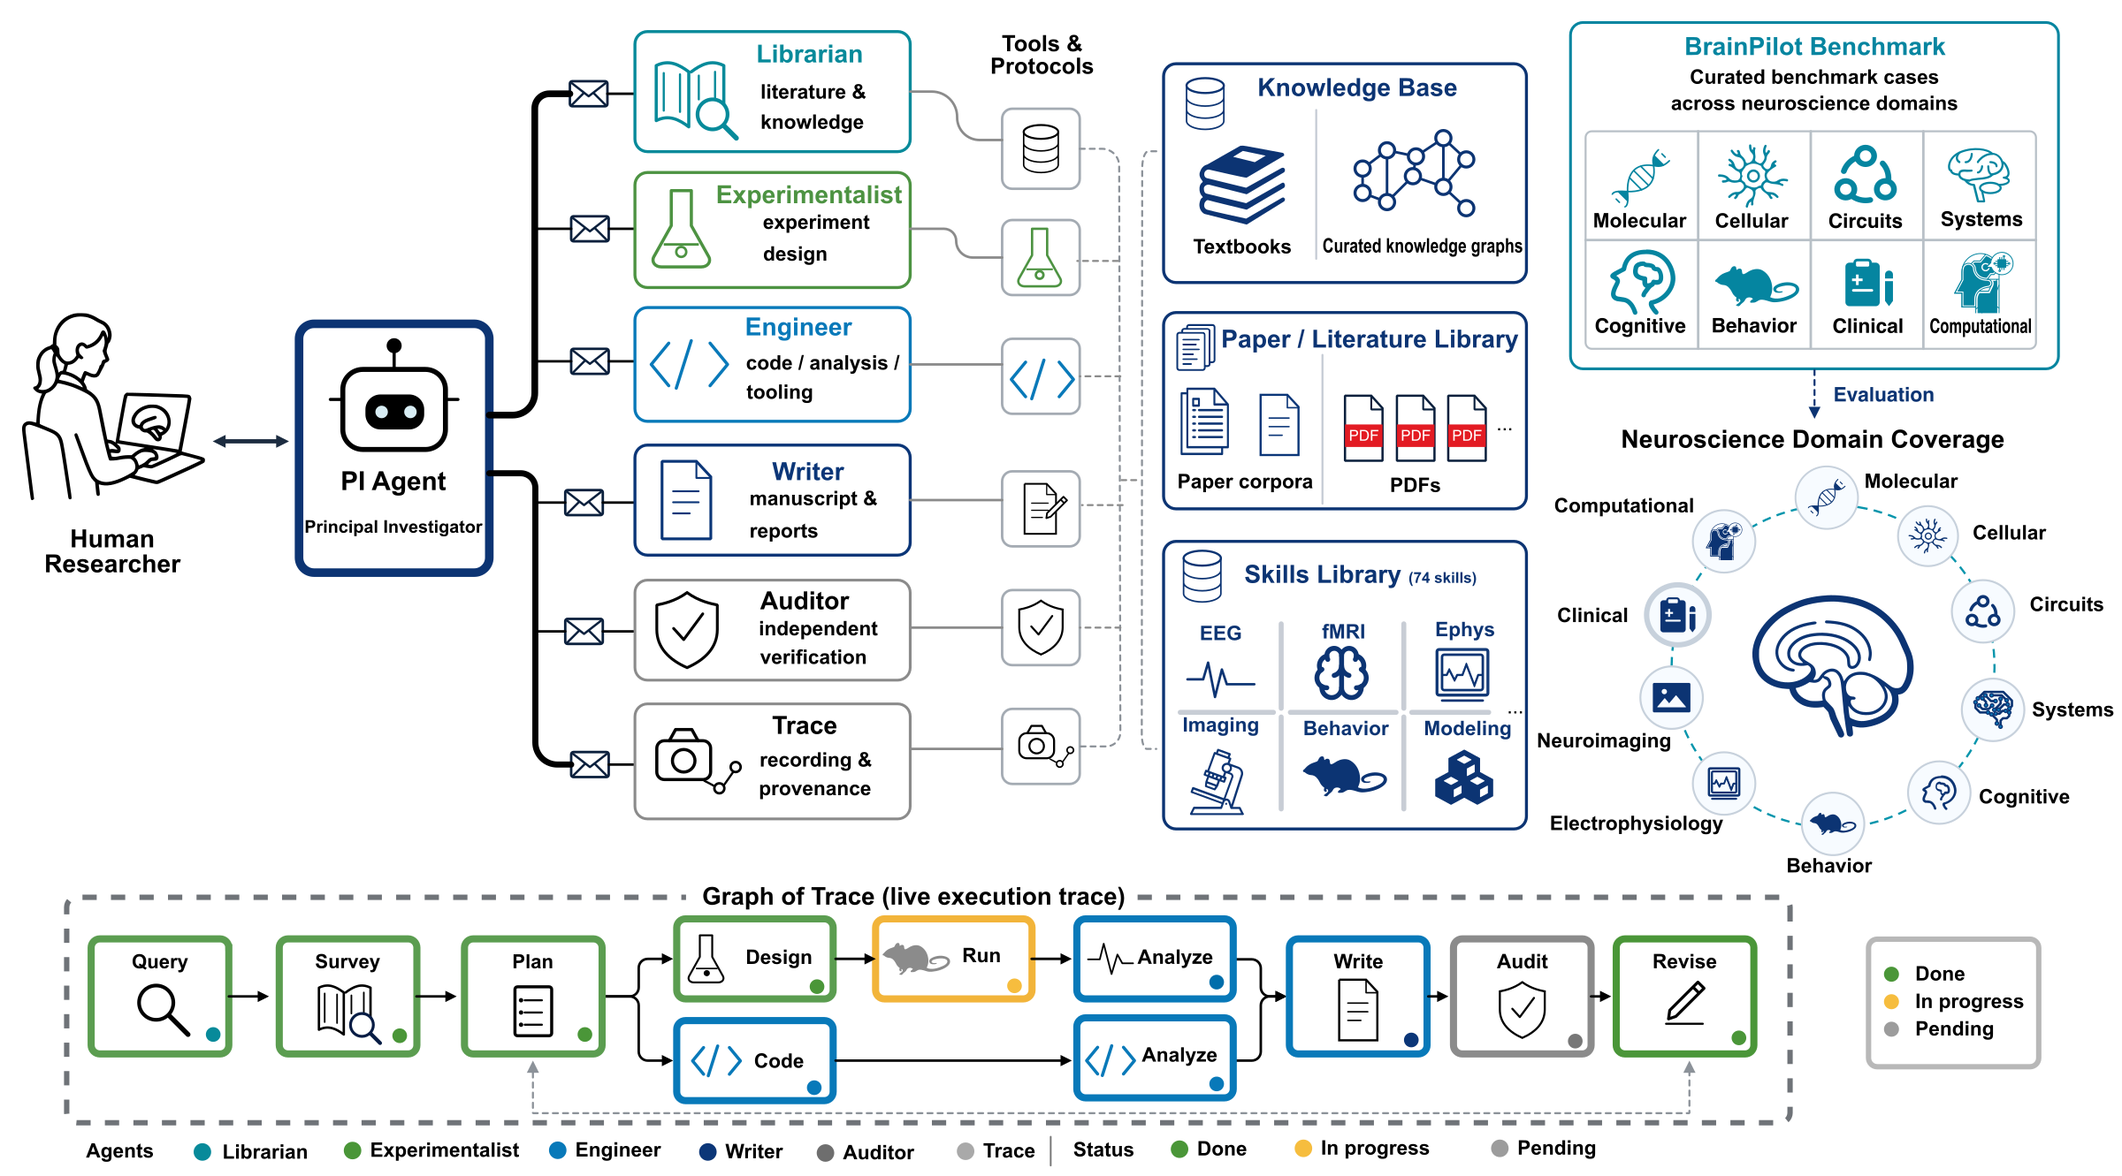
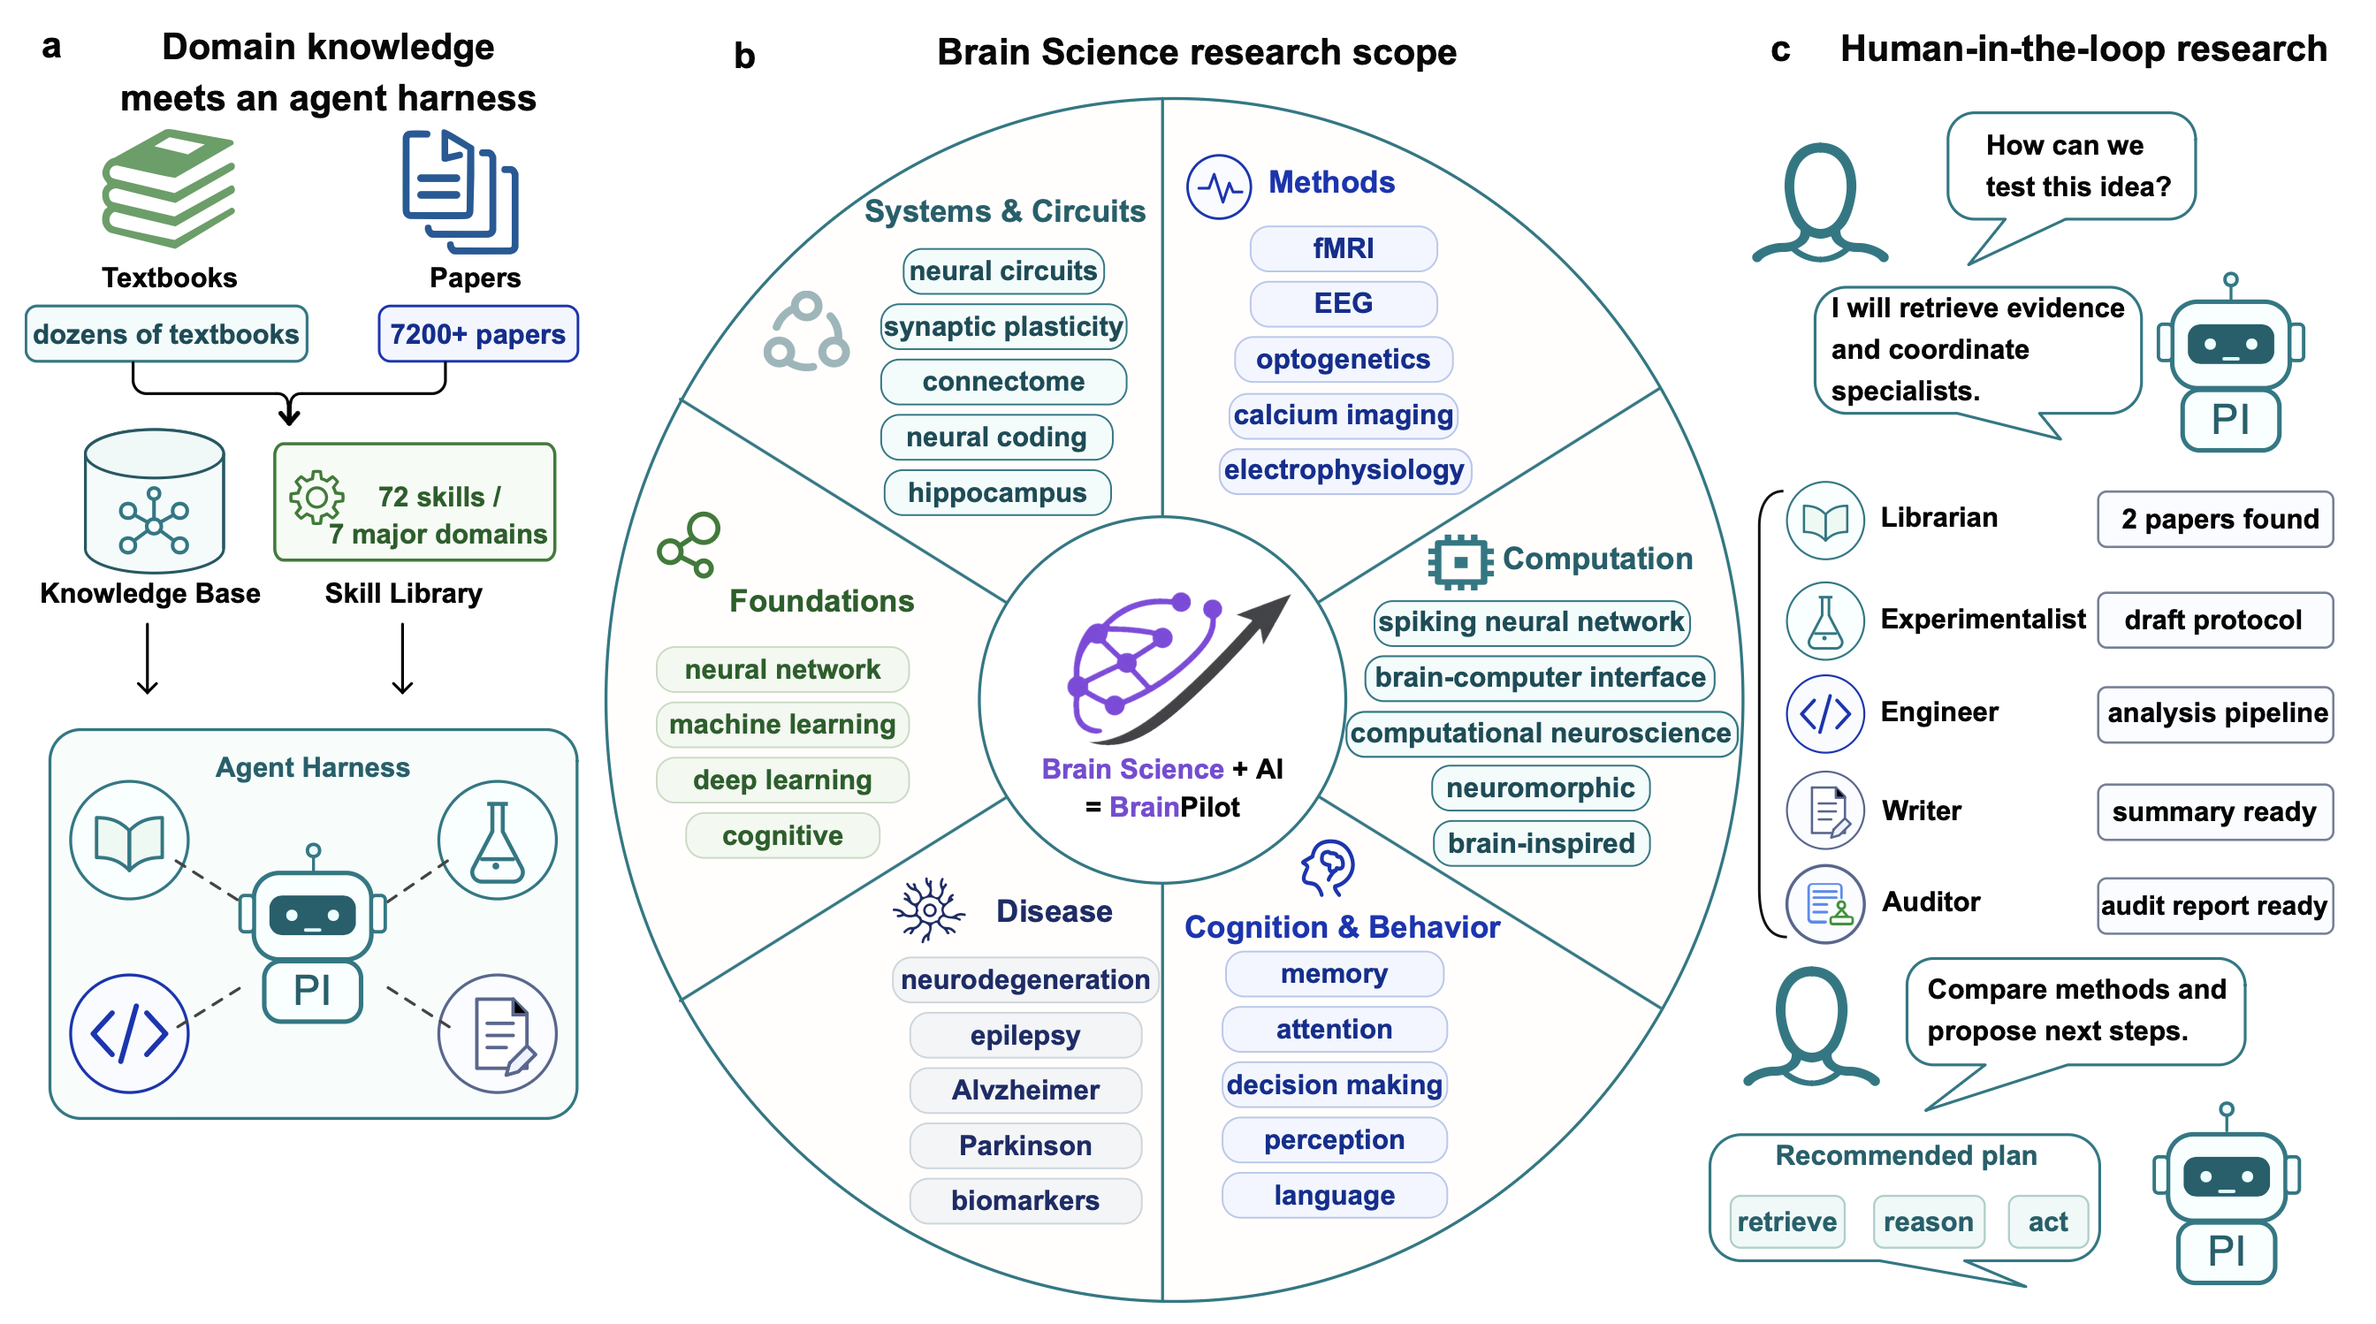
docs: align README with public technical report

Changed region(s): [[0.0, 0.0, 1.0, 0.9857], [0.0938, 0.5545, 0.1875, 0.5853]]

diff --git a/README.md b/README.md
@@ -2,7 +2,7 @@
   <img src="assets/banner.png" alt="BrainPilot" width="680"/>
 </p> -->
 
-<h1 align="center"><img src="assets/brand/icon_light.png" alt="BrainPilot icon" height="46" align="absmiddle"/> BrainPilot: Enabling Agentic Research for Brain Science</h1>
+<h1 align="center"><img src="assets/brand/icon_light.png" alt="BrainPilot icon" height="46" align="absmiddle"/> BrainPilot: Automating Brain Discovery with Agentic Research</h1>
 
 <p align="center">
 BrainPilot is an open-source, human-in-the-loop agentic system for brain science that brings together specialist agents, domain knowledge, skills, and tools to help researchers in all scientific stages — review literature, design studies, run analyses, draft reports, and audit scientific claims.
@@ -13,7 +13,7 @@ BrainPilot is an open-source, human-in-the-loop agentic system for brain science
   <a href="LICENSE"><img src="https://img.shields.io/badge/License-AGPL%20v3-blue.svg?style=flat-square" alt="License: AGPL v3"/></a>
   <a href="https://brainpilot.chat"><img src="https://img.shields.io/badge/Hosted_Demo-brainpilot.chat-0E7490?style=flat-square" alt="Hosted Demo"/></a>
   <a href="https://join.slack.com/t/brainpilot/shared_invite/zt-43pbjtuz5-AiuRez0RIYkzhIsmDQtv8A"><img src="https://img.shields.io/badge/Slack-Join_Community-4A154B?style=flat-square&logo=slack&logoColor=white" alt="Join the BrainPilot Slack"/></a>
-  <a href="#"><img src="https://img.shields.io/badge/Paper-coming%20soon-lightgrey?style=flat-square" alt="Paper (coming soon)"/></a>
+  <a href="https://arxiv.org/abs/2607.15079"><img src="https://img.shields.io/badge/Paper-arXiv%3A2607.15079-B31B1B?style=flat-square" alt="BrainPilot technical report"/></a>
   <a href="https://github.com/NeuroAIHub/BrainPilot/stargazers"><img src="https://img.shields.io/github/stars/NeuroAIHub/BrainPilot?style=flat-square" alt="Stars"/></a>
   <br/>
   <img src="https://img.shields.io/badge/TypeScript-5-3178C6?style=flat-square&logo=typescript&logoColor=white" alt="TypeScript"/>
@@ -29,7 +29,7 @@ BrainPilot is an open-source, human-in-the-loop agentic system for brain science
   <br/>
   <a href="https://brainpilot.chat/docs">Docs</a> ·
   <a href="#-evaluation">Evaluation</a> ·
-  <a href="#-research-case-studies">Cases</a> ·
+  <a href="#-selected-research-case-studies">Cases</a> ·
   <a href="#-quick-start">Quick Start</a> ·
   <a href="#-resources--knowledge-base">Resources</a> ·
   <a href="#-connecting-mcp-servers">MCP</a> ·
@@ -59,42 +59,35 @@ BrainPilot is an open-source AI research workspace for brain science. It helps r
 </p>
 
 <p align="center">
-  <img src="assets/readme/brainpilot-knowledge-flow-en.png" alt="BrainPilot domain knowledge, skill, and runtime service architecture" width="100%"/>
+  <img src="assets/readme/brainpilot-system.png" alt="BrainPilot multi-agent system and Graph of Trace architecture" width="100%"/>
 </p>
 
 ---
 
 ## 📊 Evaluation
 
-### Agents' Last Exam (ALE)
+Across ALE and BrainPilotBench-v0, BrainPilot matched or approached the strongest evaluated
+harness–model configurations on multiple tasks. ALE showed a clear cost advantage, whereas
+BrainPilotBench-v0 revealed a performance–cost trade-off.
 
-Across three neuroscience tasks from ALE, BrainPilot paired with DeepSeek-V4-Pro scored
-1.00, 0.70, and 0.09. The measured runs also show lower observed costs for several
-BrainPilot configurations than Codex + GPT-5.5 and Claude Code + Opus 4.8. T2 has a
-full-credit score of 1.00; T3 has no pass threshold, and `F` denotes a failed task with no
-gradable output. Each cell reports a single run.
-
-<p align="center">
-  <img src="assets/readme/evaluation-ale.svg" alt="BrainPilot results on three neuroscience tasks from Agents' Last Exam" width="100%"/>
-</p>
-
-### BrainPilotBench-v0 — preliminary results
-
-BrainPilotBench-v0 evaluates submitted artifacts with task-specific graders, frozen references
-or held-out data, and no LLM judge.
-The current figure reports completed RSC runs; TOPS-fMRI, motor-imagery EEG, and Sleep-EDF
-comparisons remain pending (`P`). `F` marks runs without a gradable completion. Follow the
-[leaderboard](https://brainpilot.chat/bench#leaderboard) for updated results and access the
-[public task data](https://huggingface.co/datasets/BrainPilot-Bench/Tasks-Data-Public) on
-Hugging Face.
-
-<p align="center">
-  <img src="assets/readme/evaluation-brainpilotbench.png" alt="Preliminary BrainPilotBench-v0 results" width="100%"/>
-</p>
+<table>
+  <tr>
+    <td width="50%" valign="top">
+      <b>Agents' Last Exam (ALE)</b><br/><br/>
+      On three neuroscience tasks from ALE, BrainPilot paired with DeepSeek-V4-Pro scored 1.00, 0.70, and 0.09. Across matched backbones with domain knowledge, BrainPilot used 5–56% of the cost required by Codex or Claude Code. T2 has a full-credit score of 1.00; T3 has no pass threshold, and <code>F</code> denotes a failed task with no gradable output. Each cell reports a single run.<br/><br/>
+      <img src="assets/readme/evaluation-ale.png" alt="BrainPilot results on three neuroscience tasks from Agents' Last Exam" width="100%"/>
+    </td>
+    <td width="50%" valign="top">
+      <b>BrainPilotBench-v0 — preliminary results</b><br/><br/>
+      BrainPilotBench-v0 remains preliminary because its current suite contains four tasks. Evaluations are complete for all four—RSC, TOPS-fMRI, BCI IV 2a, and Sleep-EDF. BrainPilot matched or approached the strongest evaluated configurations on multiple tasks, with a performance–cost trade-off across backbones. Task-specific graders use frozen references or held-out data rather than an LLM judge; <code>F</code> marks runs without a gradable completion. <a href="https://brainpilot.chat/bench#leaderboard">View the evaluation page</a> or access the <a href="https://huggingface.co/datasets/BrainPilot-Bench/Tasks-Data-Public">public task data</a> on Hugging Face.<br/><br/>
+      <img src="assets/readme/evaluation-brainpilotbench.png" alt="Preliminary BrainPilotBench-v0 results across four completed tasks" width="100%"/>
+    </td>
+  </tr>
+</table>
 
 ---
 
-## 🧪 Research case studies
+## 🧪 Selected research case studies
 
 These cases use real neuroscience data and retain the limits of the evidence.
 
@@ -236,6 +229,14 @@ Globally install the @brainpilot/app npm package, then run brainpilot up and giv
 
 ## 📚 Resources & Knowledge Base
 
+<p align="center">
+  <img src="assets/readme/brainpilot-kb-architecture.png" alt="BrainPilot knowledge-base construction, runtime services, and agent access architecture" width="100%"/>
+</p>
+
+<p align="center">
+  <img src="assets/readme/brainpilot-kb-stats.png" alt="BrainPilot skill-library and knowledge-base statistics" width="100%"/>
+</p>
+
 ### Built-in skills library
 
 Agents can pull in **validated domain methodology** on demand — no configuration needed.
@@ -253,7 +254,7 @@ Skills sources:
 
 - **Layout** — `packages/skills/skills/`, a two-level `<category>/<skill-name>/SKILL.md` tree (optional `references/` for drill-down detail).
 - **At deploy time** — **materialized into your data dir** at `<data-dir>/bp_template/skills/`, a user-editable copy; an existing skill is never overwritten.
-- **Inventory** — 74 bundled skills in 21 fine-grained categories, grouped into 7 broader research domains.
+- **Inventory** — 72 bundled skills across 7 major research domains.
 - **Covered domains** — cellular, molecular, genetics, and pharmacology; cognitive and behavioral research; foundation and infrastructure; human neuroimaging and electrophysiology; computational modeling and theory; literature and reporting; and clinical and applied research.
 
 <details>
@@ -556,6 +557,25 @@ or start a discussion.
 ## ⭐ Star History
 
 [![Star History Chart](https://api.star-history.com/svg?repos=NeuroAIHub/BrainPilot&type=Date)](https://star-history.com/#NeuroAIHub/BrainPilot&Date)
+
+---
+
+## 📄 Citation
+
+```bibtex
+@misc{li2026brainpilotautomatingbraindiscovery,
+  title={BrainPilot: Automating Brain Discovery with Agentic Research},
+  author={Haoxuan Li and Tianci Gao and Jianhe Li and Yang Fan and Runze Shi
+    and Weiran Wang and Tianxiang Zhao and Zezhao Wu and Xiaoyang Jiang
+    and Qihui Zhang and Jia Li and Xiao Xiao and Kai Du and Xiaoxuan Jia
+    and Chao Xie and Lu Mi},
+  year={2026},
+  eprint={2607.15079},
+  archivePrefix={arXiv},
+  primaryClass={cs.AI},
+  url={https://arxiv.org/abs/2607.15079}
+}
+```
 
 ---
 

diff --git a/README-zh.md b/README-zh.md
@@ -2,7 +2,7 @@
   <img src="assets/banner.png" alt="BrainPilot" width="680"/>
 </p> -->
 
-<h1 align="center"><img src="assets/brand/icon_light.png" alt="BrainPilot 图标" height="46" align="absmiddle"/> BrainPilot</h1>
+<h1 align="center"><img src="assets/brand/icon_light.png" alt="BrainPilot 图标" height="46" align="absmiddle"/> BrainPilot：加速自动脑科学发现的智能体系统</h1>
 
 <p align="center">
 BrainPilot 是一个开源、人在回路的脑科学智能体研究系统。它整合专业智能体、领域知识、科研技能和工具接口，帮助研究者覆盖完整科研流程：文献综述、假设细化、实验设计、数据分析、报告撰写和科学结论审查。
@@ -13,7 +13,7 @@ BrainPilot 是一个开源、人在回路的脑科学智能体研究系统。它
   <a href="LICENSE"><img src="https://img.shields.io/badge/License-AGPL%20v3-blue.svg?style=flat-square" alt="License: AGPL v3"/></a>
   <a href="https://brainpilot.chat"><img src="https://img.shields.io/badge/Hosted_Demo-brainpilot.chat-0E7490?style=flat-square" alt="在线体验"/></a>
   <a href="https://join.slack.com/t/brainpilot/shared_invite/zt-43pbjtuz5-AiuRez0RIYkzhIsmDQtv8A"><img src="https://img.shields.io/badge/Slack-加入社区-4A154B?style=flat-square&logo=slack&logoColor=white" alt="加入 BrainPilot Slack"/></a>
-  <a href="#"><img src="https://img.shields.io/badge/Paper-即将公开-lightgrey?style=flat-square" alt="Paper (coming soon)"/></a>
+  <a href="https://arxiv.org/abs/2607.15079"><img src="https://img.shields.io/badge/Paper-arXiv%3A2607.15079-B31B1B?style=flat-square" alt="BrainPilot 技术报告"/></a>
   <a href="https://github.com/NeuroAIHub/BrainPilot/stargazers"><img src="https://img.shields.io/github/stars/NeuroAIHub/BrainPilot?style=flat-square" alt="Stars"/></a>
   <br/>
   <img src="https://img.shields.io/badge/TypeScript-5-3178C6?style=flat-square&logo=typescript&logoColor=white" alt="TypeScript"/>
@@ -29,7 +29,7 @@ BrainPilot 是一个开源、人在回路的脑科学智能体研究系统。它
   <br/>
   <a href="https://brainpilot.chat/docs">文档</a> ·
   <a href="#-评测结果">评测</a> ·
-  <a href="#-真实研究案例">案例</a> ·
+  <a href="#-精选真实研究案例">案例</a> ·
   <a href="#-快速开始">快速开始</a> ·
   <a href="#-资源与知识库">资源</a> ·
   <a href="#-接入-mcp-服务">MCP</a> ·
@@ -60,39 +60,35 @@ BrainPilot 是一个面向脑科学的开源人工智能研究工作台，帮助
 </p>
 
 <p align="center">
-  <img src="assets/readme/brainpilot-knowledge-flow-zh.png" alt="BrainPilot 领域知识、科研技能与运行时服务架构" width="100%"/>
+  <img src="assets/readme/brainpilot-system.png" alt="BrainPilot 多智能体系统与 Graph of Trace 架构" width="100%"/>
 </p>
 
 ---
 
 ## 📊 评测结果
 
-### Agents' Last Exam（ALE）
+在 ALE 和 BrainPilotBench-v0 的多项任务上，BrainPilot 达到或接近本次评测中表现最强的
+harness–model 组合。ALE 显示出明确的成本优势，而 BrainPilotBench-v0 揭示了不同 backbone
+下的性能—成本权衡。
 
-在 ALE 的三项脑科学任务上，BrainPilot 搭载 DeepSeek-V4-Pro 分别获得 1.00、0.70 和
-0.09 分。图中实测运行也显示，BrainPilot 的多个配置成本低于 Codex + GPT-5.5 和
-Claude Code + Opus 4.8。T2 的满分为 1.00；T3 不设通过阈值，`F` 表示该次任务失败且没有可评分产物。
-每个单元格均为一次运行的结果。
-
-<p align="center">
-  <img src="assets/readme/evaluation-ale.svg" alt="BrainPilot 在 Agents' Last Exam 三项脑科学任务上的结果" width="100%"/>
-</p>
-
-### BrainPilotBench-v0——阶段性结果
-
-BrainPilotBench-v0 使用任务专属 grader、冻结参考或 held-out 数据评估 Agent 提交的产物，不依赖
-LLM-as-judge。当前图中仅 RSC 对比运行已经完成；
-TOPS-fMRI、运动想象 EEG 与 Sleep-EDF 仍在等待正式结果（`P`），`F` 表示该次运行没有可评分的
-完整产物。最新结果见 [Leaderboard](https://brainpilot.chat/bench#leaderboard)，公开任务数据见
-[Hugging Face](https://huggingface.co/datasets/BrainPilot-Bench/Tasks-Data-Public)。
-
-<p align="center">
-  <img src="assets/readme/evaluation-brainpilotbench.png" alt="BrainPilotBench-v0 阶段性评测结果" width="100%"/>
-</p>
+<table>
+  <tr>
+    <td width="50%" valign="top">
+      <b>Agents' Last Exam（ALE）</b><br/><br/>
+      在 ALE 的三项脑科学任务上，BrainPilot 搭载 DeepSeek-V4-Pro 分别获得 1.00、0.70 和 0.09 分。在启用领域知识并匹配 backbone 的比较中，BrainPilot 的成本为 Codex 或 Claude Code 的 5–56%。T2 的满分为 1.00；T3 不设通过阈值，<code>F</code> 表示该次任务失败且没有可评分产物。每个单元格均为一次运行的结果。<br/><br/>
+      <img src="assets/readme/evaluation-ale.png" alt="BrainPilot 在 Agents' Last Exam 三项脑科学任务上的结果" width="100%"/>
+    </td>
+    <td width="50%" valign="top">
+      <b>BrainPilotBench-v0——阶段性结果</b><br/><br/>
+      BrainPilotBench-v0 仍处于阶段性评测，因为当前任务集仅包含四项任务。RSC、TOPS-fMRI、BCI IV 2a 和 Sleep-EDF 的评测均已完成。BrainPilot 在多项任务上达到或接近本次评测中的最佳配置，但不同 backbone 呈现出性能—成本权衡。任务专属 grader 使用冻结参考或 held-out 数据，而非 LLM-as-judge；<code>F</code> 表示该次运行没有可评分的完整产物。<a href="https://brainpilot.chat/bench#leaderboard">查看评测页面</a>，或访问 Hugging Face 上的<a href="https://huggingface.co/datasets/BrainPilot-Bench/Tasks-Data-Public">公开任务数据</a>。<br/><br/>
+      <img src="assets/readme/evaluation-brainpilotbench.png" alt="BrainPilotBench-v0 四项已完成任务的阶段性评测结果" width="100%"/>
+    </td>
+  </tr>
+</table>
 
 ---
 
-## 🧪 真实研究案例
+## 🧪 精选真实研究案例
 
 以下案例使用真实脑科学数据，并保留结果的统计边界。
 
@@ -225,6 +221,14 @@ npm run bp -- up     # 从源码启动（-- 用于把 flag 透传给 CLI）
 
 ## 📚 资源与知识库
 
+<p align="center">
+  <img src="assets/readme/brainpilot-kb-architecture.png" alt="BrainPilot 知识库构建、运行时服务与智能体访问架构" width="100%"/>
+</p>
+
+<p align="center">
+  <img src="assets/readme/brainpilot-kb-stats.png" alt="BrainPilot 技能库与知识库统计" width="100%"/>
+</p>
+
 ### 内置技能库
 
 智能体可以按需调用 **经过验证的领域方法学** —— 无需任何配置。内置技能以 `@brainpilot/skills`
@@ -241,7 +245,7 @@ npm run bp -- up     # 从源码启动（-- 用于把 flag 透传给 CLI）
 
 - **目录结构** —— `packages/skills/skills/`，两级目录树 `<category>/<skill-name>/SKILL.md`（可选 `references/` 存放可下钻的细节）。
 - **部署时** —— **物化到你的数据目录** `<data-dir>/bp_template/skills/`，一份可编辑的副本；已存在的技能永不会被覆盖。
-- **当前规模** —— 74 个内置技能，分属 21 个细粒度类别，并归入 7 个研究领域。
+- **当前规模** —— 72 个内置技能，覆盖 7 个主流研究领域。
 - **覆盖领域** —— 细胞、分子、遗传与药理；认知与行为；基础方法与基础设施；人类神经影像与电生理；计算建模与理论；文献与报告工具；临床与应用研究。
 
 <details>
@@ -497,6 +501,25 @@ BrainPilot 是一个 8 包的 TypeScript monorepo：
 ## ⭐ Star 趋势
 
 [![Star History Chart](https://api.star-history.com/svg?repos=NeuroAIHub/BrainPilot&type=Date)](https://star-history.com/#NeuroAIHub/BrainPilot&Date)
+
+---
+
+## 📄 引用
+
+```bibtex
+@misc{li2026brainpilotautomatingbraindiscovery,
+  title={BrainPilot: Automating Brain Discovery with Agentic Research},
+  author={Haoxuan Li and Tianci Gao and Jianhe Li and Yang Fan and Runze Shi
+    and Weiran Wang and Tianxiang Zhao and Zezhao Wu and Xiaoyang Jiang
+    and Qihui Zhang and Jia Li and Xiao Xiao and Kai Du and Xiaoxuan Jia
+    and Chao Xie and Lu Mi},
+  year={2026},
+  eprint={2607.15079},
+  archivePrefix={arXiv},
+  primaryClass={cs.AI},
+  url={https://arxiv.org/abs/2607.15079}
+}
+```
 
 ---
 
